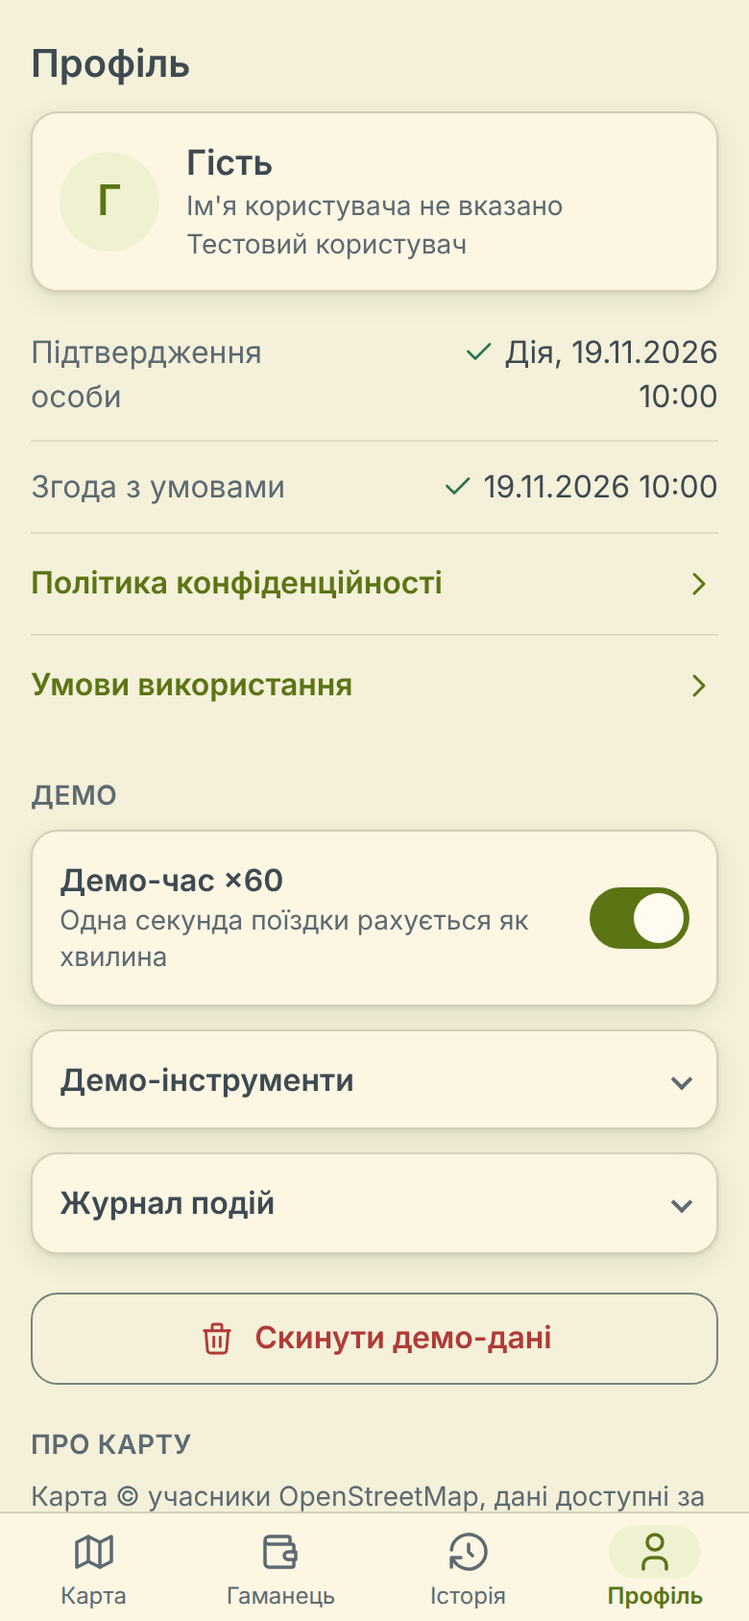
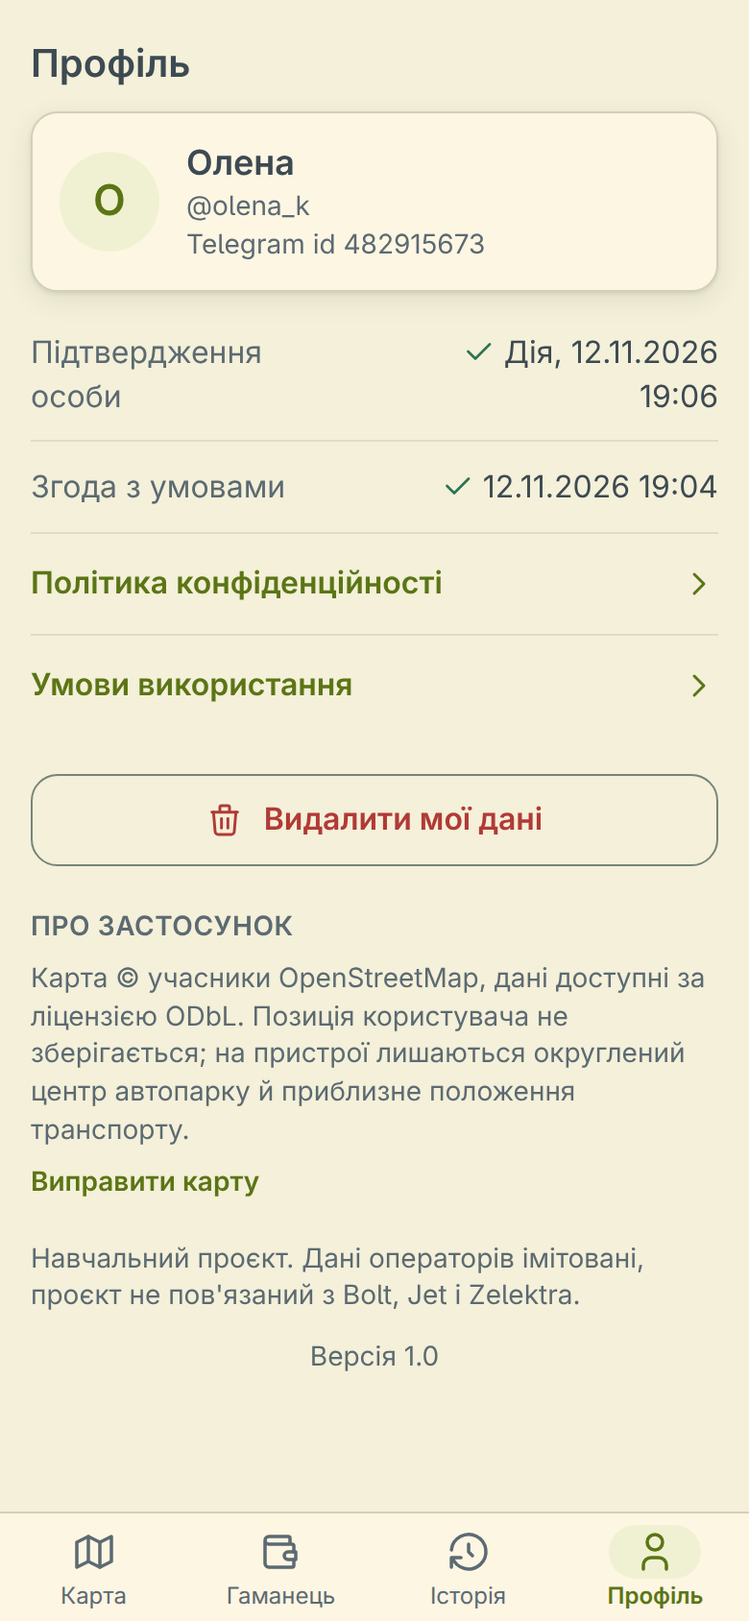
feat(dt): polish prototype for real-use look

diff --git a/digital_tech/prototype/app/js/ui/profile.js b/digital_tech/prototype/app/js/ui/profile.js
@@ -1,8 +1,9 @@
-/** Профіль: дані, згода, налаштування демо, журнал подій, про карту. */
+/** Профіль: дані, згода, про застосунок; службові елементи лише в режимі тестування. */
 import { DISCLAIMER, FIX_MAP_URL, CFG } from '../config.js';
 import * as store from '../store.js';
 import * as api from '../api.js';
 import * as tg from '../tg.js';
+import * as testmode from '../testmode.js';
 import { fullTime, esc, money } from '../format.js';
 import { icon } from './components.js';
 
@@ -10,11 +11,12 @@ const METHOD = { DIIA: 'Дія', BANKID: 'BankID' };
 const EVT = {
   CONSENT: 'Згода з умовами', ID_VERIFIED: 'Особу підтверджено', BONUS: 'Стартовий бонус', TOPUP: 'Поповнення', UNLOCK: 'Розблокування',
   UNLOCK_REFUSED: 'Відмова в розблокуванні', LOW_BALANCE: 'Попередження про залишок', RIDE_FINISH: 'Завершення поїздки', CHARGE: 'Списання',
-  FLEET_GENERATED: 'Автопарк сформовано', RESET: 'Скидання демо-даних',
+  FLEET_GENERATED: 'Автопарк сформовано', RESET: 'Видалення даних',
 };
 
 export function mount(root, ctx) {
   let open = { tools: false, log: false };
+  let taps = 0, tapTimer = null;
 
   const render = () => {
     const s = store.get();
@@ -25,8 +27,8 @@ export function mount(root, ctx) {
       <section class="card who">
         <div class="avatar" aria-hidden="true">${esc(u.firstName.slice(0, 1).toUpperCase())}</div>
         <div><div class="strong lg">${esc(u.firstName)}</div>
-        <div class="muted sm">${u.username ? '@' + esc(u.username) : 'Ім\'я користувача не вказано'}</div>
-        <div class="muted sm">${u.isGuest ? 'Тестовий користувач' : 'Telegram id ' + u.tgId}</div></div>
+        <div class="muted sm">${u.username ? '@' + esc(u.username) : (u.isGuest ? 'Вхід через браузер' : 'Ім\'я користувача не вказано')}</div>
+        ${u.isGuest ? '' : `<div class="muted sm">Telegram id ${u.tgId}</div>`}</div>
       </section>
       <ul class="list kvlist">
         <li><span class="muted">Підтвердження особи</span><span>${u.identity ? `${icon('check', 'okic')} ${METHOD[u.identity.method]}, ${esc(fullTime(u.identity.at))}` : 'Не підтверджено'}</span></li>
@@ -35,12 +37,12 @@ export function mount(root, ctx) {
         <li><a class="link row" href="#privacy"><span>Політика конфіденційності</span>${icon('chevron-right')}</a></li>
         <li><a class="link row" href="#terms"><span>Умови використання</span>${icon('chevron-right')}</a></li>
       </ul>
-      <h2 class="sec">Демо</h2>
+      ${testmode.isTest() ? `<h2 class="sec">Режим тестування</h2>
       <div class="card switchrow">
-        <div><div class="strong">Демо-час ×60</div><div class="muted sm">Одна секунда поїздки рахується як хвилина</div></div>
-        <button type="button" role="switch" class="switch" aria-checked="${s.settings.timeFactor === 60}" id="tf" aria-label="Демо-час ×60"><span></span></button>
+        <div><div class="strong">Прискорений час ×60</div><div class="muted sm">Одна секунда поїздки рахується як хвилина</div></div>
+        <button type="button" role="switch" class="switch" aria-checked="${s.settings.timeFactor === 60}" id="tf" aria-label="Прискорений час ×60"><span></span></button>
       </div>
-      <details class="card acc" id="tools" ${open.tools ? 'open' : ''}><summary>Демо-інструменти</summary>
+      <details class="card acc" id="tools" ${open.tools ? 'open' : ''}><summary>Інструменти тестування</summary>
         <div class="tools">
           <div class="muted sm">Баланс гаманця</div>
           <div class="chips">${[9900, 10000, 1500].map((b) => `<button type="button" class="chip" data-bal="${b}">${money(b, { compact: true })}</button>`).join('')}</div>
@@ -53,12 +55,15 @@ export function mount(root, ctx) {
       <details class="card acc" id="log" ${open.log ? 'open' : ''}><summary>Журнал подій</summary>
         <ul class="evlog">${log.map((e) => `<li><span class="muted sm num">${esc(fullTime(e.at))}</span><span>${EVT[e.type] || e.type}</span></li>`).join('') || '<li class="muted">Подій ще немає</li>'}</ul>
       </details>
-      <button type="button" class="btn ghost danger-b" id="reset">${icon('trash')}<span>Скинути демо-дані</span></button>
-      <h2 class="sec">Про карту</h2>
+      <p class="muted sm note">Режим: ${tg.inTelegram() ? 'Telegram' : 'браузер'}. Центр автопарку: ${s.fleet ? esc(s.fleet.centerSource) : 'немає'}.</p>
+      <button type="button" class="btn ghost" id="testoff">Вимкнути режим тестування</button>` : ''}
+      <button type="button" class="btn ghost danger-b" id="reset">${icon('trash')}<span>Видалити мої дані</span></button>
+      <h2 class="sec">Про застосунок</h2>
       <p class="muted sm">Карта © учасники OpenStreetMap, дані доступні за ліцензією ODbL. Позиція користувача не зберігається; на пристрої лишаються округлений центр автопарку й приблизне положення транспорту.</p>
       <p class="sm"><a class="link" href="${FIX_MAP_URL}" data-ext>Виправити карту</a></p>
-      <p class="muted sm">Режим: ${tg.inTelegram() ? 'Telegram' : 'браузер, тестовий користувач'}${store.isMemoryOnly() ? '. Сховище браузера недоступне, дані живуть лише до закриття сторінки.' : ''}</p>
+      ${store.isMemoryOnly() ? '<p class="muted sm">Сховище браузера недоступне, дані зберігаються лише до закриття сторінки.</p>' : ''}
       <p class="disclaimer">${esc(DISCLAIMER)}</p>
+      <p class="muted sm version" id="ver" role="button" tabindex="-1">Версія 1.0</p>
     </div>`;
   };
 
@@ -71,8 +76,14 @@ export function mount(root, ctx) {
     const fail = t.closest('[data-fail]');
     if (fail) { api.setFailNext(fail.dataset.fail || null); tg.haptic.select(); render(); return; }
     if (t.closest('#reset')) {
-      const b = await tg.popup({ title: 'Скинути демо-дані?', message: 'Буде видалено згоду, підтвердження особи, гаманець, поїздки й журнал. Застосунок почне спочатку.', buttons: [{ id: 'ok', type: 'destructive', text: 'Скинути' }, { id: 'no', type: 'cancel' }] });
-      if (b === 'ok') { api.resetAll(tg.user()); tg.haptic.ok(); ctx.nav('#s1', { toast: 'Демо-дані скинуто' }); }
+      const b = await tg.popup({ title: 'Видалити мої дані?', message: 'Буде видалено згоду, підтвердження особи, гаманець, поїздки й журнал на цьому пристрої. Застосунок почне спочатку.', buttons: [{ id: 'ok', type: 'destructive', text: 'Видалити' }, { id: 'no', type: 'cancel' }] });
+      if (b === 'ok') { api.resetAll(tg.user()); tg.haptic.ok(); ctx.nav('#s1', { toast: 'Дані видалено' }); }
+      return;
+    }
+    if (t.closest('#testoff')) { api.setTimeFactor(1); api.setFailNext(null); testmode.set(false); tg.haptic.select(); ctx.toast('Режим тестування вимкнено'); render(); return; }
+    if (t.closest('#ver')) {
+      taps++; clearTimeout(tapTimer); tapTimer = setTimeout(() => { taps = 0; }, 2500);
+      if (taps >= 7 && !testmode.isTest()) { taps = 0; testmode.set(true); tg.haptic.ok(); ctx.toast('Режим тестування увімкнено'); render(); }
       return;
     }
     const ext = t.closest('[data-ext]');

diff --git a/digital_tech/prototype/app/css/app.css b/digital_tech/prototype/app/css/app.css
@@ -125,17 +125,17 @@ ul { margin: 0; padding: 0; list-style: none; }
 .tx .txic.neg { background: var(--select); color: var(--text); }
 
 /* ---------- S3 ---------- */
-.mapwrap { position: absolute; inset: 0; isolation: isolate; z-index: 0; }
+.mapwrap { position: absolute; inset: 64px 0 0 0; isolation: isolate; z-index: 0; }
 .map { width: 100%; height: 100%; background: var(--bg); font: inherit; }
 .leaflet-container { background: var(--bg); font: inherit; }
 :root[data-theme="light"] .leaflet-tile-pane { filter: saturate(.55) sepia(.18) brightness(1.03); }
 :root[data-theme="dark"] .leaflet-tile-pane { filter: invert(1) hue-rotate(180deg) saturate(.5) brightness(.9) contrast(.95); }
 .leaflet-control-attribution { background: var(--elevated) !important; color: var(--muted) !important; font-size: .75rem !important; padding: 2px 8px !important; border-radius: 0 0 0 8px; border-left: 1px solid var(--border); border-bottom: 1px solid var(--border); }
 .leaflet-control-attribution a { color: var(--info) !important; text-decoration: none; }
-.maptop { position: absolute; top: 32px; left: 12px; right: 12px; z-index: 5; pointer-events: none; }
+.maptop { position: absolute; top: 0; left: 0; right: 0; padding: 14px 12px 12px; background: var(--bg); border-bottom: 1px solid var(--border); z-index: 5; }
 .maptop .chips { pointer-events: auto; }
 .maptop .chips { gap: 6px; }
-.maptop .chip { background: var(--elevated); box-shadow: var(--shadow); padding: 0 12px; font-size: .875rem; }
+.maptop .chip { background: var(--surface); padding: 0 12px; font-size: .875rem; }
 .maptop .chip.on { background: var(--primary-soft); }
 .fabs { position: absolute; right: 12px; bottom: calc(40% + 12px); z-index: 9; display: flex; flex-direction: column; gap: 8px; transition: opacity .2s; }
 .fabs.hide { opacity: 0; pointer-events: none; }
@@ -233,7 +233,7 @@ ul { margin: 0; padding: 0; list-style: none; }
 .legal p { margin-bottom: 4px; }
 
 /* ---------- вікна, аркуш поповнення, тости ---------- */
-#layer { position: fixed; inset: 0; z-index: 50; pointer-events: none; }
+#layer { position: fixed; inset: 0; height: var(--vh, auto); z-index: 50; pointer-events: none; }
 #layer > * { pointer-events: auto; }
 .modal { position: absolute; inset: 0; background: var(--scrim); display: flex; align-items: center; justify-content: center; padding: 24px; }
 .dialog { width: 100%; max-width: 340px; background: var(--elevated); border: 1px solid var(--border); border-radius: 20px; padding: 20px; box-shadow: var(--shadow); }
@@ -266,3 +266,4 @@ ul { margin: 0; padding: 0; list-style: none; }
   body, #app, #view, .screen, .route { overflow: visible; position: static; height: auto; }
   .card { box-shadow: none; }
 }
+.version { text-align: center; margin: 12px 0 0; user-select: none; -webkit-user-select: none; }

diff --git a/digital_tech/prototype/app/js/ui/s4-ride.js b/digital_tech/prototype/app/js/ui/s4-ride.js
@@ -25,7 +25,7 @@ export function mount(root, ctx) {
       <div class="rows">
         <div class="kv"><span class="muted">Вартість зараз</span><span class="strong num" id="cost"></span></div>
         <div class="kv"><span class="muted">Тариф</span><span class="num">${money(r0.unlock, { compact: true })} + ${money(r0.perMin)}/хв</span></div>
-        <div class="kv"><span class="muted">Залишок на балансі</span><span class="strong num" id="left"></span></div>
+        <div class="kv"><span class="muted">Баланс гаманця</span><span class="strong num" id="bal"></span></div>
       </div>
     </section>
     <div id="lowbox"></div>
@@ -34,8 +34,9 @@ export function mount(root, ctx) {
       <div class="kv"><span class="muted">Розблокування</span><span class="num">${money(r0.unlock)}</span></div>
       <div class="kv"><span class="muted" id="calcmin"></span><span class="num" id="calcsum"></span></div>
       <div class="kv tot"><span>Разом зараз</span><span class="num" id="calctot"></span></div>
+      <div class="kv"><span class="muted">Залишиться після поїздки</span><span class="strong num" id="left"></span></div>
     </section>
-    <p class="muted sm note">Сума спишеться з гаманця після завершення. Хвилини рахуються вгору, мінімум одна. Тариф імітований.</p>
+    <p class="muted sm note">Сума спишеться з гаманця після завершення. Хвилини рахуються вгору, мінімум одна.</p>
   </div>`;
   const $ = (id) => root.querySelector(`#${id}`);
 
@@ -51,6 +52,7 @@ export function mount(root, ctx) {
     $('calcmin').textContent = `${run.minutes} ${minWord(run.minutes)} за ${money(r0.perMin)}`;
     $('calcsum').textContent = money(run.minutes * r0.perMin);
     $('calctot').textContent = money(run.price);
+    $('bal').textContent = money(store.get().wallet.balance);
     $('left').textContent = money(left);
     $('left').classList.toggle('danger-t', left < 0);
     const level = left < 0 ? 'danger' : left <= CFG.LOW_LEFT ? 'warning' : 'none';

diff --git a/digital_tech/prototype/app/js/ui/legal.js b/digital_tech/prototype/app/js/ui/legal.js
@@ -11,7 +11,7 @@ const PAGES = {
       ['Де це зберігається', 'У прототипі всі дані лишаються на вашому пристрої, у сховищі застосунку. Вони не передаються на сервер і не передаються операторам. У MVP дані зберігатиме серверна частина проєкту.'],
       ['Позиція', 'Позиція потрібна лише для показу транспорту поруч, і саму позицію користувача застосунок не записує. На пристрої лишаються округлений центр автопарку та положення імітованого транспорту, зокрема після поїздки: його ставимо поблизу місця завершення зі зсувом у десятки метрів і округленням.'],
       ['Підтвердження особи', 'Дія й BankID у прототипі імітуються, документи не збираються й не передаються.'],
-      ['Видалення', 'Кнопка «Скинути демо-дані» у Профілі видаляє всі дані застосунку на пристрої.'],
+      ['Видалення', 'Кнопка «Видалити мої дані» у Профілі видаляє всі дані застосунку на пристрої.'],
       ['Карта', 'Плитки карти завантажує OpenStreetMap; його сервери бачать адресу вашого пристрою, як для будь-якого сайту.'],
     ],
   },

diff --git a/digital_tech/prototype/app/js/ui/s5-history.js b/digital_tech/prototype/app/js/ui/s5-history.js
@@ -1,5 +1,5 @@
 /** S5. Історія поїздок усіх операторів і чек поїздки. */
-import { CFG, TYPES, opByCode, DISCLAIMER } from '../config.js';
+import { CFG, TYPES, opByCode } from '../config.js';
 import * as api from '../api.js';
 import * as tg from '../tg.js';
 import { money, dateTime, fullTime, esc, minWord, timeOnly } from '../format.js';
@@ -45,8 +45,7 @@ export function mountReceipt(root, ctx, id) {
         <div class="kv after"><span class="muted">Баланс після поїздки</span><span class="num ${r.balanceAfter < 0 ? 'danger-t' : ''}">${money(r.balanceAfter)}</span></div>
       </section>
       ${r.balanceAfter < 0 ? `<div class="banner danger" role="alert">${icon('alert-triangle')}<div><div class="strong">Є борг ${money(-r.balanceAfter)}</div><div class="sm">Його буде погашено першим поповненням. Нова поїздка заблокована до погашення.</div></div></div>` : ''}
-      ${tg.inTelegram() ? '' : `<button type="button" class="btn ghost" id="print">${icon('file-text')}<span>Зберегти чек у PDF (друк)</span></button>`}
-      <p class="disclaimer">${esc(DISCLAIMER)}</p>`;
+      ${tg.inTelegram() ? '' : `<button type="button" class="btn ghost" id="print">${icon('file-text')}<span>Зберегти чек у PDF (друк)</span></button>`}`;
     const p = root.querySelector('#print'); if (p) p.addEventListener('click', () => window.print());
   }).catch(() => { root.querySelector('#r').innerHTML = `<div class="empty big">${icon('receipt')}<p class="strong">Чек не знайдено</p></div>`; });
   tg.back.set(() => ctx.back('#s5'));

diff --git a/digital_tech/prototype/app/js/ui/s1-start.js b/digital_tech/prototype/app/js/ui/s1-start.js
@@ -1,5 +1,4 @@
 /** S1. Вхід: привітання, згода з умовами, імітація Дія / BankID. */
-import { DISCLAIMER } from '../config.js';
 import * as store from '../store.js';
 import * as api from '../api.js';
 import * as tg from '../tg.js';
@@ -34,14 +33,13 @@ export function mount(root, ctx) {
           <span>Погоджуюсь з <a href="#terms">Умовами використання</a> та <a href="#privacy">Політикою конфіденційності</a></span></label>
         ${consent ? `<p class="muted sm note">Згоду надано ${esc(fullTime(st.consentAt))}</p>` : ''}
       </div>
-      <h2 class="sec">Підтвердження особи, імітація</h2>
+      <h2 class="sec">Підтвердження особи</h2>
       
       <div class="idbtns" ${id ? "hidden" : ""}>
         <button type="button" class="btn secondary" data-m="DIIA" ${busy ? 'disabled' : ''}>${busy === 'DIIA' ? '<span class="spin on"></span>' : icon('id')}<span>Підтвердити особу через Дію</span></button>
         <button type="button" class="btn secondary" data-m="BANKID" ${busy ? 'disabled' : ''}>${busy === 'BANKID' ? '<span class="spin on"></span>' : icon('shield-check')}<span>Підтвердити через BankID</span></button>
       </div>
       <div class="idstatus" aria-live="polite">${id ? `<span class="badge success lg">${icon('check')}<span>Особу підтверджено (${METHOD[id.method]})</span></span><span class="muted sm">${esc(fullTime(id.at))}</span>` : ''}</div>
-      <p class="disclaimer">${esc(DISCLAIMER)}</p>
     </div>`;
     updateMain();
   };

diff --git a/digital_tech/prototype/app/js/tg.js b/digital_tech/prototype/app/js/tg.js
@@ -4,6 +4,7 @@
  * з тим самим виглядом. Усі виклики Telegram іде через safe() і перевірку версії.
  */
 import { CFG } from './config.js';
+import { isTest } from './testmode.js';
 
 const W = () => (window.Telegram && window.Telegram.WebApp) || null;
 const safe = (fn, fallback) => { try { return fn(); } catch { return fallback; } };
@@ -14,11 +15,11 @@ export const inTelegram = () => !!safe(() => W().initData, false);
 
 const cssVar = (n) => getComputedStyle(document.documentElement).getPropertyValue(n).trim();
 
-/** Користувач із initDataUnsafe або тестовий гість. */
+/** Користувач із initDataUnsafe; у браузері нейтральний профіль (ім'я з тестового режиму реалістичне, без позначки). */
 export function user() {
   const u = safe(() => W().initDataUnsafe.user, null);
   if (inTelegram() && u && u.id) return { id: u.id, firstName: u.first_name || 'Користувач', username: u.username || null, isGuest: false };
-  return { id: 0, firstName: 'Гість', username: null, isGuest: true };
+  return { id: 0, firstName: isTest() ? 'Максим' : 'Користувач', username: null, isGuest: true };
 }
 
 /** Параметр запуску (?startapp=s3) для переходу на екран: initData, потім адреса сторінки. */

diff --git a/digital_tech/prototype/app/js/ui/s2-wallet.js b/digital_tech/prototype/app/js/ui/s2-wallet.js
@@ -9,7 +9,7 @@ const TX = {
   BONUS: { label: 'Стартовий бонус', icon: 'plus' },
   TOPUP: { label: 'Поповнення', icon: 'credit-card' },
   CHARGE: { label: 'Поїздка', icon: 'scooter-electric' },
-  ADJUST: { label: 'Демо-коригування', icon: 'refresh' },
+  ADJUST: { label: 'Коригування балансу', icon: 'refresh' },
 };
 
 export function mount(root, ctx) {
@@ -28,7 +28,7 @@ export function mount(root, ctx) {
       </section>
       <h2 class="sec">Поповнення</h2>
       <div class="chips" role="radiogroup" aria-label="Сума поповнення">${CFG.TOPUPS.map((a) => `<button type="button" role="radio" aria-checked="${a === amount}" class="chip${a === amount ? ' on' : ''}" data-a="${a}">${money(a, { compact: true })}</button>`).join('')}</div>
-      <div class="card cardrow">${icon('credit-card')}<div><div class="strong">Картка ${CFG.CARD}</div><div class="muted sm">Імітація платіжного шлюзу</div></div></div>
+      <div class="card cardrow">${icon('credit-card')}<div><div class="strong">Картка ${CFG.CARD}</div><div class="muted sm">Платіжна картка</div></div></div>
       <h2 class="sec">Операції</h2>
       <ul class="list tx" aria-label="Операції">${tx.map((t) => {
         const meta = TX[t.type] || { label: t.type, icon: 'receipt' };

diff --git a/digital_tech/prototype/app/js/testmode.js b/digital_tech/prototype/app/js/testmode.js
@@ -1,0 +1,24 @@
+/**
+ * Прихований режим тестування: вмикається адресою ?test=1 або сімома дотиками по рядку версії в Профілі,
+ * зберігається в localStorage (ключ emob.test). Показує службові елементи, яких немає в звичайному інтерфейсі.
+ */
+const KEY = 'emob.test';
+let on = false;
+
+function readFlag() { try { return localStorage.getItem(KEY) === '1'; } catch { return false; } }
+
+/** Ініціалізація з адреси й сховища (викликається до першого малювання). */
+export function init() {
+  let q = null;
+  try { q = new URLSearchParams(window.location.search).get('test'); } catch { /* без параметрів */ }
+  if (q === '1') set(true);
+  else if (q === '0') set(false);
+  else on = readFlag();
+}
+
+export const isTest = () => on;
+
+export function set(v) {
+  on = !!v;
+  try { if (on) localStorage.setItem(KEY, '1'); else localStorage.removeItem(KEY); } catch { /* лишається в пам'яті */ }
+}

diff --git a/digital_tech/prototype/app/js/ui/s3-map.js b/digital_tech/prototype/app/js/ui/s3-map.js
@@ -1,5 +1,5 @@
 /** S3. Карта й порівняння: Leaflet, маркери операторів, фільтр, сортування, нижній аркуш, розблокування. */
-import { CFG, TILES, TYPES, DISCLAIMER } from '../config.js';
+import { CFG, TILES, TYPES } from '../config.js';
 import * as store from '../store.js';
 import * as api from '../api.js';
 import * as geo from '../geo.js';
@@ -68,7 +68,7 @@ export function mount(root, ctx) {
     } else if (!offers.length) {
       ul.innerHTML = `<li class="empty">${icon('map-pin')}<p>У цьому районі немає вільного транспорту вибраного типу.</p><p class="muted sm">Змініть фільтр або перемістіть карту.</p></li>`;
     } else {
-      ul.innerHTML = offers.map(offerHtml).join('') + `<li class="foot"><p class="disclaimer">${esc(DISCLAIMER)}</p></li>`;
+      ul.innerHTML = offers.map(offerHtml).join('');
     }
   }
 

diff --git a/digital_tech/prototype/app/js/ui/components.js b/digital_tech/prototype/app/js/ui/components.js
@@ -77,7 +77,7 @@ export function openTopUp({ amount = CFG.TOPUPS[0], auto = false } = {}) {
       <div class="grab" aria-hidden="true"></div>
       <h2 id="tu-t">Поповнення гаманця</h2>
       <div class="chips" role="radiogroup" aria-label="Сума поповнення">${chips()}</div>
-      <div class="cardrow">${icon('credit-card')}<div><div class="strong">Картка ${CFG.CARD}</div><div class="muted sm">Імітація платіжного шлюзу, реальні гроші не списуються</div></div></div>
+      <div class="cardrow">${icon('credit-card')}<div><div class="strong">Картка ${CFG.CARD}</div><div class="muted sm">Оплата банківською карткою</div></div></div>
       <div class="pay-state" aria-live="polite"></div>
       <button type="button" class="btn ghost close">Закрити</button></div>`;
     const state = wrap.querySelector('.pay-state');

diff --git a/digital_tech/prototype/app/js/main.js b/digital_tech/prototype/app/js/main.js
@@ -1,5 +1,6 @@
 /** Запуск застосунку: тема, стан, маршрути за hash, вкладки, нагляд за поїздкою. */
 import * as tg from './tg.js';
+import * as testmode from './testmode.js';
 import * as store from './store.js';
 import * as api from './api.js';
 import { CFG } from './config.js';
@@ -97,6 +98,7 @@ async function watchRide() {
 }
 
 function boot() {
+  testmode.init();
   tg.init();
   tg.main.mountShim();
   tg.back.mountShim();
